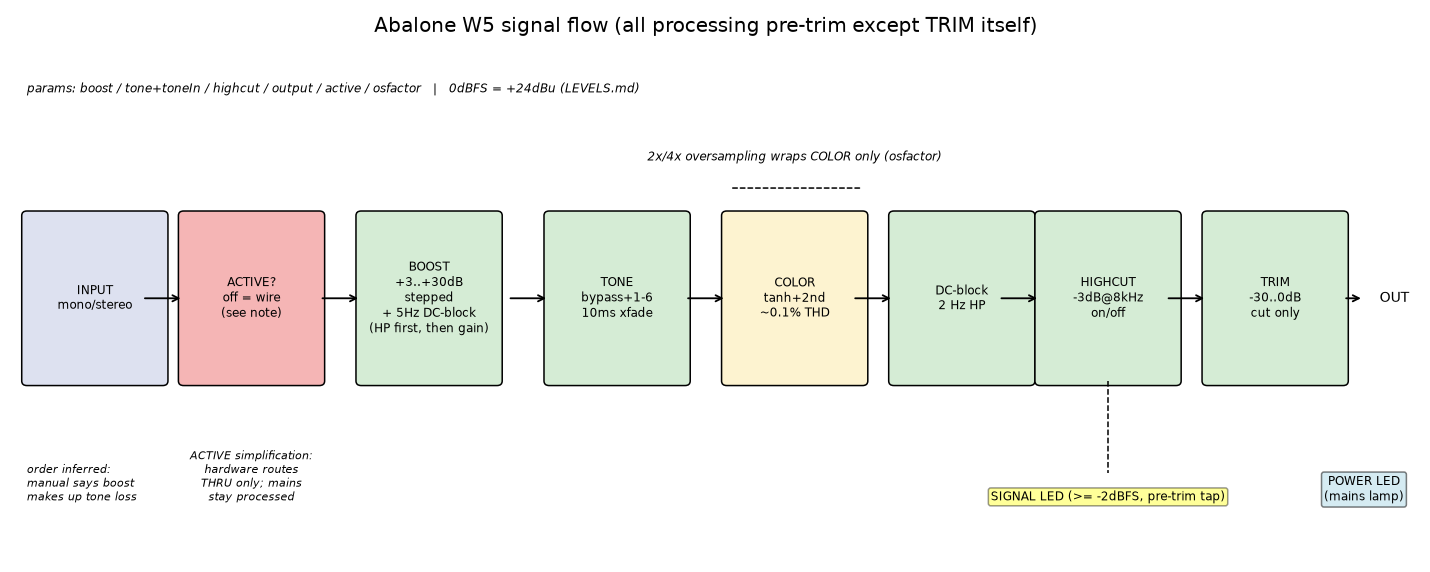
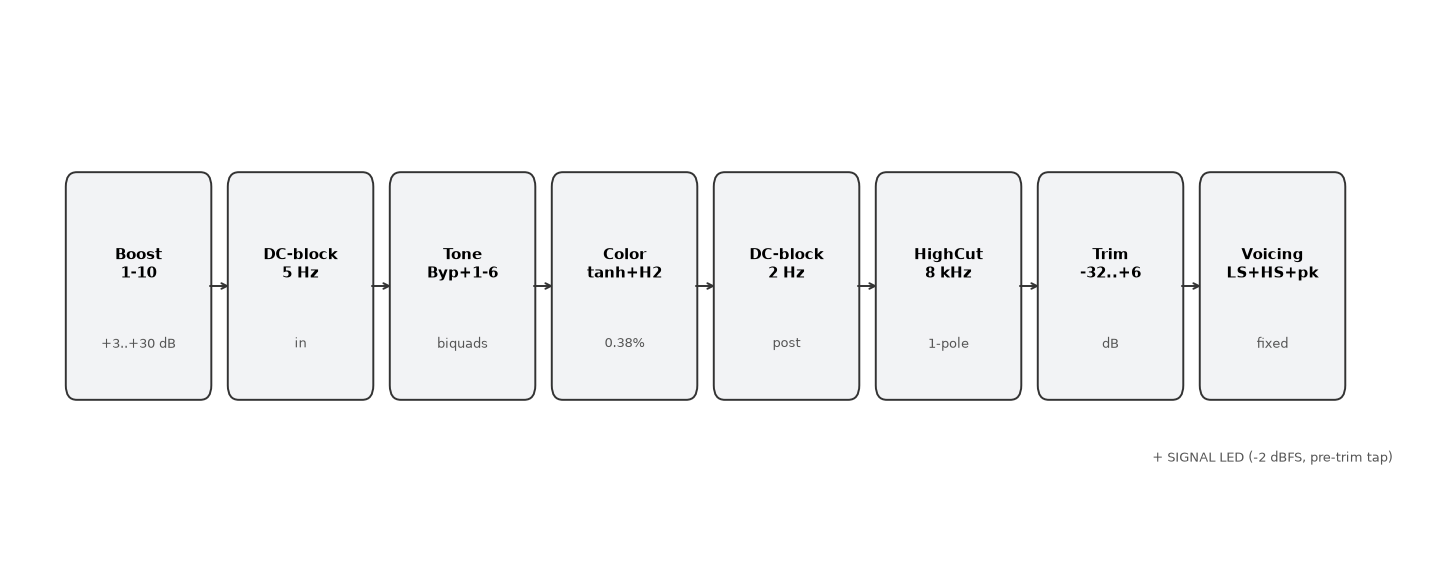
v1.2.1: voicing rename, dynamics docs, v110 faceplate restore

diff --git a/src/dsp/ProcessorChain.h b/src/dsp/ProcessorChain.h
@@ -19,7 +19,7 @@
 //
 // Chain order: GainStage (boost + 5Hz DC-block) -> ToneBank A/B xfade ->
 // ColorStage -> post-color 2Hz DC-block -> HighCut -> trim gain ->
-// fixed hardware tilt (LS120/HS8k, engaged only) -> peak tracker.
+// fixed hardware voicing (LS120/HS8k successors, engaged only) -> peak tracker.
 //
 // Tone xfade: two ToneBank instances (active + shadow). On
 // setTone(new) != target, the shadow takes the new tone from a clean state
@@ -107,16 +107,16 @@ struct ProcessorChain
         constexpr double postFc = 2.0;
         constexpr double postTwoPi = 6.28318530717958647692;
         postHpCoeff_ = static_cast<float> (1.0 - std::exp (-postTwoPi * postFc / sampleRate_));
-        // Fixed hardware tilt (engaged path only — ACTIVE-off passthrough
+        // Fixed hardware voicing (engaged path only — ACTIVE-off passthrough
         // returns before processSample's tail, so bypass stays bit-exact):
         // LS 75Hz +0.91dB Q0.54 + HS 5441Hz -0.34dB Q0.62 + peak 180Hz
         // +0.11dB Q1.97, Q-parametrized RBJ (same cookbook as
-        // ToneBank::cook; the ChainTest tilt oracle pins it). States flushed
+        // ToneBank::cook; the ChainTest voicing oracle pins it). States flushed
         // like the OS lines: history is meaningless across rates.
-        cookTiltShelf (false, 75.0, 0.54, 0.91, sampleRate_, tiltB_[0], tiltA_[0]);
-        cookTiltShelf (true, 5441.0, 0.62, -0.34, sampleRate_, tiltB_[1], tiltA_[1]);
-        cookTiltPeak (180.0, 1.97, 0.11, sampleRate_, tiltB_[2], tiltA_[2]);
-        tiltZ_[0][0] = tiltZ_[0][1] = tiltZ_[1][0] = tiltZ_[1][1] = tiltZ_[2][0] = tiltZ_[2][1] = 0.0f;
+        cookVoiceShelf (false, 75.0, 0.54, 0.91, sampleRate_, voiceB_[0], voiceA_[0]);
+        cookVoiceShelf (true, 5441.0, 0.62, -0.34, sampleRate_, voiceB_[1], voiceA_[1]);
+        cookVoicePeak (180.0, 1.97, 0.11, sampleRate_, voiceB_[2], voiceA_[2]);
+        voiceZ_[0][0] = voiceZ_[0][1] = voiceZ_[1][0] = voiceZ_[1][1] = voiceZ_[2][0] = voiceZ_[2][1] = 0.0f;
         xfadeLen_ = static_cast<int> (std::lround (0.01 * sampleRate));
         if (xfadeLen_ < 1)
             xfadeLen_ = 1;
@@ -231,20 +231,20 @@ struct ProcessorChain
         const float deblocked = colored - postLp_;
         const float cut = highcut_.processSample (deblocked);
         const float out = cut * trimLin_;
-        // Fixed hardware tilt (see setSampleRate): three TDF-II sections
+        // Fixed hardware voicing (see setSampleRate): three TDF-II sections
         // (LS + HS + low-mid peak). Denormal snap mirrors ToneBank (states
         // freeze exact at silence).
-        float tilted = out;
+        float voiced = out;
         for (int s = 0; s < 3; ++s)
         {
-            const float y = tiltB_[s][0] * tilted + tiltZ_[s][0];
-            tiltZ_[s][0] = tiltB_[s][1] * tilted - tiltA_[s][0] * y + tiltZ_[s][1];
-            tiltZ_[s][1] = tiltB_[s][2] * tilted - tiltA_[s][1] * y;
-            if (std::fabs (tiltZ_[s][0]) < 1.0e-15f)
-                tiltZ_[s][0] = 0.0f;
-            if (std::fabs (tiltZ_[s][1]) < 1.0e-15f)
-                tiltZ_[s][1] = 0.0f;
-            tilted = y;
+            const float y = voiceB_[s][0] * voiced + voiceZ_[s][0];
+            voiceZ_[s][0] = voiceB_[s][1] * voiced - voiceA_[s][0] * y + voiceZ_[s][1];
+            voiceZ_[s][1] = voiceB_[s][2] * voiced - voiceA_[s][1] * y;
+            if (std::fabs (voiceZ_[s][0]) < 1.0e-15f)
+                voiceZ_[s][0] = 0.0f;
+            if (std::fabs (voiceZ_[s][1]) < 1.0e-15f)
+                voiceZ_[s][1] = 0.0f;
+            voiced = y;
         }
 
         // Pre-trim tap (post-HighCut, pre-trim-gain peak) for the SIGNAL LED:
@@ -256,10 +256,10 @@ struct ProcessorChain
         if (preMag > prePeak_.load (std::memory_order_relaxed))
             prePeak_.store (preMag, std::memory_order_relaxed);
 
-        const float mag = std::fabs (tilted);
+        const float mag = std::fabs (voiced);
         if (mag > peak_.load (std::memory_order_relaxed))
             peak_.store (mag, std::memory_order_relaxed);
-        return tilted;
+        return voiced;
     }
 
     // Max |post-trim| since the last call; resets to 0 on read. Legacy tap,
@@ -426,17 +426,17 @@ private:
     ColorStage color_;
     float postHpCoeff_ = 0.0f;
     float postLp_ = 0.0f;
-    // Fixed hardware tilt: RBJ sections (b = b0..b2 normalized, a = a1..a2)
+    // Fixed hardware voicing: RBJ sections (b = b0..b2 normalized, a = a1..a2)
     // plus TDF-II states. Cooked in setSampleRate, applied in processSample.
-    float tiltB_[3][3] = {};
-    float tiltA_[3][2] = {};
-    float tiltZ_[3][2] = {};
+    float voiceB_[3][3] = {};
+    float voiceA_[3][2] = {};
+    float voiceZ_[3][2] = {};
 
     // Q-parametrized RBJ shelf/peak cook, cookbook-identical to
     // ToneBank::cook (same formulae, same normalization) so the test oracle
     // and the chain can only disagree by float rounding.
-    static void cookTiltShelf (bool high, double f0, double q, double gainDb, double sampleRate, float (&b)[3],
-                               float (&a)[2])
+    static void cookVoiceShelf (bool high, double f0, double q, double gainDb, double sampleRate, float (&b)[3],
+                                float (&a)[2])
     {
         constexpr double twoPi = 6.28318530717958647692;
         const double w0 = twoPi * f0 / sampleRate;
@@ -472,7 +472,7 @@ private:
     }
 
     // Q-parametrized RBJ peak cook, cookbook-identical to ToneBank::cook.
-    static void cookTiltPeak (double f0, double q, double gainDb, double sampleRate, float (&b)[3], float (&a)[2])
+    static void cookVoicePeak (double f0, double q, double gainDb, double sampleRate, float (&b)[3], float (&a)[2])
     {
         constexpr double twoPi = 6.28318530717958647692;
         const double w0 = twoPi * f0 / sampleRate;

diff --git a/tests/ChainTest.cpp b/tests/ChainTest.cpp
@@ -26,13 +26,13 @@ float blockerTheoryDb (double fc, double freqHz, double sampleRate)
     return static_cast<float> (20.0 * std::log10 (std::abs (h)));
 }
 
-// Tilt oracle (fitted hardware tilt, engaged path only): LS 75Hz +0.91dB
+// Voicing oracle (fitted hardware voicing, engaged path only): LS 75Hz +0.91dB
 // Q0.54 + HS 5441Hz -0.34dB Q0.62 + peak 180Hz +0.11dB Q1.97,
 // Q-parametrized RBJ (same cookbook family as ToneBank::cook). Theoretical
 // magnitude in dB — an independent frequency-domain path from the chain's
 // time-domain biquads, same pattern as the blocker-loss oracle in
 // audit10HzAnchors below.
-float tiltTheoryDb (double freqHz, double sampleRate)
+float voiceTheoryDb (double freqHz, double sampleRate)
 {
     constexpr double twoPi = 6.28318530717958647692;
     auto section = [&] (int kind, double f0, double q, double gainDb)
@@ -81,7 +81,7 @@ float tiltTheoryDb (double freqHz, double sampleRate)
 }
 
 // (a) End-to-end engaged-flat (tone 0, highcut off, boost step 1 (+3dB),
-// trim 0): output sits on +3dB PLUS the fitted hardware tilt (LS75 +0.91 /
+// trim 0): output sits on +3dB PLUS the fitted hardware voicing (LS75 +0.91 /
 // HS5441 -0.34 + PK180 +0.11, engaged path only — ACTIVE-off passthrough
 // stays bit-exact, see ProcessorIOTest). 1kHz within +/-0.1dB, 20Hz-15kHz
 // spots within +/-0.2dB of theory. 5Hz is the DC-block corner (-3dB by
@@ -132,9 +132,9 @@ void checkBypassFlat ()
             chain.setHighcut (false);
             chain.setTrimDb (0.0f);
             const float gainDb = steadyGainDb (chain, sampleRate, spots[f], 0.5f);
-            // Expectation models the full engaged tail: boost + tilt +
+            // Expectation models the full engaged tail: boost + voicing +
             // both DC-blockers (5Hz in, 2Hz post-color).
-            const float expectDb = kStep1Db + tiltTheoryDb (spots[f], sampleRate) +
+            const float expectDb = kStep1Db + voiceTheoryDb (spots[f], sampleRate) +
                                    blockerTheoryDb (5.0, spots[f], sampleRate) +
                                    blockerTheoryDb (2.0, spots[f], sampleRate);
             const float tol = spots[f] == 1000.0 ? 0.1f : 0.2f;
@@ -850,9 +850,9 @@ void checkPostColorTransparency1k ()
     ref.setSampleRate (48000.0);
     ref.setTone (3);
     // Boost step 1 (+3dB) + tone theory + color small-signal gain k/tanh(k)
-    // (k = 0.06 post drive-fit) + engaged tilt theory (LS120/HS8k at 1kHz).
+    // (k = 0.06 post drive-fit) + engaged voicing theory (LS120/HS8k at 1kHz).
     const float expected = 3.0f + ref.magnitudeAt (1000.0f) + 20.0f * std::log10 (0.06f / std::tanh (0.06f)) +
-                           tiltTheoryDb (1000.0, 48000.0);
+                           voiceTheoryDb (1000.0, 48000.0);
     std::printf ("post-color transparency @1kHz/tone3: %+0.4fdB (expect %+0.4f +/- 0.05)\n", measured, expected);
     std::fflush (stdout);
     assert (std::fabs (measured - expected) < 0.05f);
@@ -862,8 +862,8 @@ void checkPostColorTransparency1k ()
 // assert — the controller rules compensate-vs-document from these numbers).
 // Per tone (boost step 1, highcut off, trim 0): raw chain magnitude at 10Hz
 // vs the absolute anchors (T1/T3/T4 -3, T2 -0.25, T5/T6 -22), with the exact
-// blocker losses plus the engaged tilt shown separately (5Hz input blocker
-// + 2Hz post-color blocker per Ruling 30 + LS120/HS8k tilt — one column per
+// blocker losses plus the engaged voicing shown separately (5Hz input blocker
+// + 2Hz post-color blocker per Ruling 30 + LS120/HS8k voicing — one column per
 // stage, so the audit names the actual chain).
 void audit10HzAnchors ()
 {
@@ -879,11 +879,11 @@ void audit10HzAnchors ()
     };
     const float loss5 = blockerLossDb (5.0);
     const float loss2 = blockerLossDb (2.0);
-    const float tilt10 = tiltTheoryDb (10.0, fs);
+    const float voice10 = voiceTheoryDb (10.0, fs);
 
     const float anchors[7] = {0.0f, -3.0f, -0.25f, -3.0f, -3.0f, -22.0f, -22.0f};
-    std::printf ("10Hz audit @48k (5Hz-blocker %+0.4fdB, 2Hz-blocker %+0.4fdB, tilt %+0.4fdB):\n", loss5, loss2,
-                 tilt10);
+    std::printf ("10Hz audit @48k (5Hz-blocker %+0.4fdB, 2Hz-blocker %+0.4fdB, voice %+0.4fdB):\n", loss5, loss2,
+                 voice10);
     for (int tone = 1; tone <= 6; ++tone)
     {
         ProcessorChain chain;
@@ -894,16 +894,17 @@ void audit10HzAnchors ()
         chain.setTrimDb (0.0f);
         const float raw = steadyGainDb (chain, fs, 10.0, 0.1f);
         // Chain adds boost (+3dB), color small-signal gain, the blockers,
-        // and the engaged tilt.
+        // and the engaged voicing.
         const float colorDb = 20.0f * std::log10 (0.06f / std::tanh (0.06f));
-        const float tiltDb = tiltTheoryDb (10.0, fs);
+        const float voiceDb = voiceTheoryDb (10.0, fs);
         const float comp1 = raw - 3.0f - colorDb - loss5;
         const float comp2 = raw - 3.0f - colorDb - loss5 - loss2;
-        const float comp3 = comp2 - tiltDb;
-        std::printf ("  T%d: raw %+0.3f | -5Hz %+0.3f (d %+0.3f) | -both %+0.3f (d %+0.3f) | -tilt %+0.3f (d %+0.3f) | "
-                     "anchor %+0.2f\n",
-                     tone, raw, comp1, comp1 - anchors[tone], comp2, comp2 - anchors[tone], comp3,
-                     comp3 - anchors[tone], anchors[tone]);
+        const float comp3 = comp2 - voiceDb;
+        std::printf (
+            "  T%d: raw %+0.3f | -5Hz %+0.3f (d %+0.3f) | -both %+0.3f (d %+0.3f) | -voice %+0.3f (d %+0.3f) | "
+            "anchor %+0.2f\n",
+            tone, raw, comp1, comp1 - anchors[tone], comp2, comp2 - anchors[tone], comp3, comp3 - anchors[tone],
+            anchors[tone]);
     }
     std::fflush (stdout);
 }

diff --git a/src/PluginEditor.cpp b/src/PluginEditor.cpp
@@ -121,7 +121,7 @@ AbaloneW5AudioProcessorEditor::AbaloneW5AudioProcessorEditor (AbaloneW5AudioProc
     setOpaque (false);
     // PNG skins + layout CSV are decoded/parsed once here on the message
     // thread, never on audio.
-    faceImage = imageFromBinary (BinaryData::v120background_png, BinaryData::v120background_pngSize);
+    faceImage = imageFromBinary (BinaryData::V110Bakedbackground_png, BinaryData::V110Bakedbackground_pngSize);
     // v110: knob bodies are BAKED (never drawn by code) — only the needles
     // rotate, pivot at needle-art bottom-center (12 o'clock art).
     boostDialLookAndFeel.needleImage =

diff --git a/README.md b/README.md
@@ -14,7 +14,7 @@ Inspired by the Avalon U5. Not affiliated with or endorsed by Avalon Design.
 
 ## What it is
 
-Clean DI signal path — `Boost -> DC-block -> Tone -> Color -> DC-block -> HighCut -> Trim -> Tilt + LED` —
+Clean DI signal path — `Boost -> DC-block -> Tone -> Color -> DC-block -> HighCut -> Trim -> Voicing + LED` —
 built with JUCE 8 biquads/gain only. Ships as VST3 (Windows, macOS, Linux)
 plus an AU component (macOS, for Logic — auval-validated). 0 dBFS = +24 dBu
 (hardware max in); +4 dBu nominal = −20 dBFS (see `analysis/LEVELS.md`).
@@ -33,16 +33,6 @@ plus an AU component (macOS, for Logic — auval-validated). 0 dBFS = +24 dBu
 | OS mini-knob | 1x/2x/4x oversampling on the Color stage only, default 1x (exact FIR delay 0/40/60 samples via `setLatencySamples`) |
 
 Editor is aspect-locked, corner-drag resizable 1x–2x (748x304 to 1496x608).
-
-## Dynamics
-
-Boost isn't just level — each step bends into the color stage's soft knee
-at a different point. Unity-trimmed transfer curves:
-
-<img src="docs/dynamics.png" width="550" alt="Boost transfer curves">
-
-Boost 1–3 rides the diagonal (pure level); 6 peels off on peaks; 10 dives
-early. Pick compression by boost step — no threshold knob needed.
 
 ## Build from source
 
@@ -68,6 +58,16 @@ from the first open.
 - Standalone (dev testing only, not shipped): run the locally built `Abalone W5.exe` directly.
 
 ## Validation
+
+### Dynamics
+
+Boost isn't just level — each step bends into the color stage's soft knee
+at a different point. Unity-trimmed transfer curves:
+
+<img src="docs/dynamics.png" width="400" alt="Boost transfer curves">
+
+Boost 1–3 rides the diagonal (pure level); 6 peels off on peaks; 10 dives
+early. Pick compression by boost step — no threshold knob needed.
 
 - Per-stage CTest gates (`tests/`): bypass flat 20 Hz–15 kHz ±0.5 dB (±0.1 at 1 kHz; the owned 5 Hz −3 dB DC-block corner is by design), tones fit to digitized curves within ±0.5 dB, boost +3 dB/step with no clip, highcut −3 dB @ 8 kHz, THD ~0.38% at +10 dB stage level.
 - Tone shapes cross-checked against IR measurements ([tone curves](docs/tone-curves.png), [signal flow](docs/signal-flow.png)).

diff --git a/AGENTS.md b/AGENTS.md
@@ -52,7 +52,7 @@ U5-flavored clean DI VST3 + AU (Logic). JUCE 8 biquads/gain only. No WDF. 1x/2x/
 
 ## DSP chain (fixed order)
 
-`Boost -> DC-block -> Tone -> Color -> HighCut -> Trim -> Tilt + LED`
+`Boost -> DC-block -> Tone -> Color -> HighCut -> Trim -> Voicing + LED`
 
 - Boost: Choice 1-10, 3dB/step (~+3 to +30dB). Clean float, no hard clip.
 - DC-block: 5Hz input. Tone: bypass (TONE0) + 1-6 biquads, default Tone 3, 10ms xfade.
